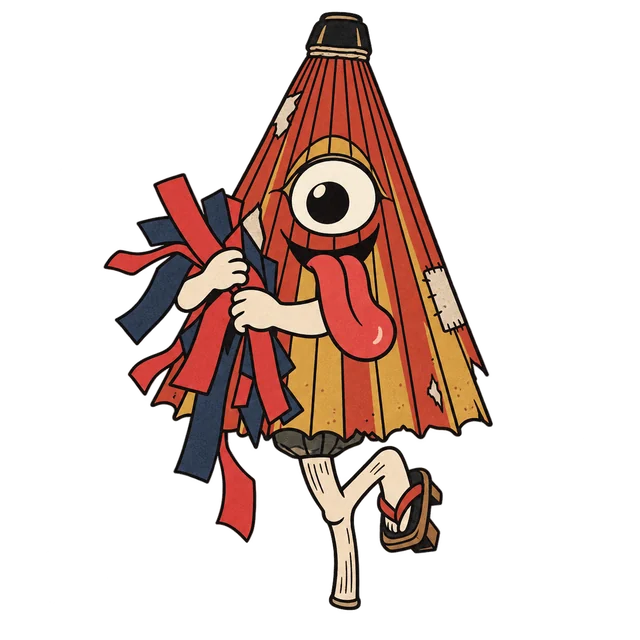
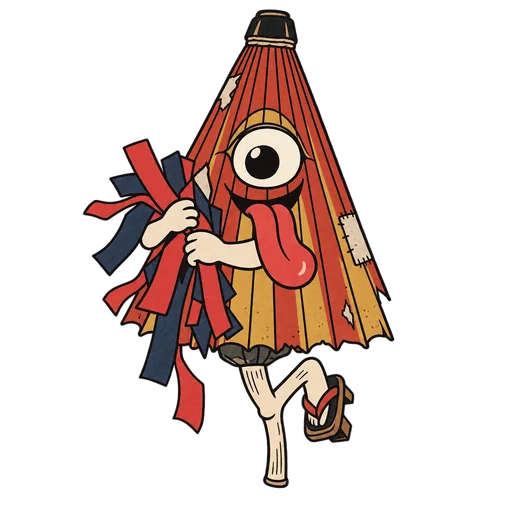
feat: painted portraits for all ten regular yokai
Zashiki-warashi, Chochin-obake, Kawauso, Hitotsume-kozo, Bakeneko,
Ittan-momen, Nopperabo, Kamaitachi, Rokurokubi and Yama-uba, cut out with
scripts/cutout.py. Portraits now ship at 512px (the largest is shown at
about 450 device pixels), about 1.1MB for all fifteen.

Claude-Session: https://claude.ai/code/session_01D2AYuUeNwB7r5b8zyDarYr

diff --git a/src/ui/art/portraitArt.ts b/src/ui/art/portraitArt.ts
@@ -1,10 +1,20 @@
 /**
  * Painted portraits that replace a spirit's drawn one. Each image is square with a transparent
  * background; the drawn seasonal backdrop and frame stay, and the painting sits inside them.
- * Sources live in art-source/yokai/; the game ships 640px webp copies.
+ * Sources live in art-source/yokai/; the game ships 512px webp copies.
  */
 import type { SpiritId } from '@/content/spirits';
 import kasaObake from './portraits/kasaObake.webp';
+import bakeneko from './portraits/bakeneko.webp';
+import chochinObake from './portraits/chochinObake.webp';
+import hitotsumeKozo from './portraits/hitotsumeKozo.webp';
+import ittanMomen from './portraits/ittanMomen.webp';
+import kamaitachi from './portraits/kamaitachi.webp';
+import kawauso from './portraits/kawauso.webp';
+import nopperabo from './portraits/nopperabo.webp';
+import rokurokubi from './portraits/rokurokubi.webp';
+import yamauba from './portraits/yamauba.webp';
+import zashikiWarashi from './portraits/zashikiWarashi.webp';
 import kodama from './portraits/kodama.webp';
 import rainMan from './portraits/rainMan.webp';
 import tanuki from './portraits/tanuki.webp';
@@ -31,6 +41,56 @@ export type Framing = 'close' | 'full';
 export type PortraitId = SpiritId | 'rainMan';
 
 export const PORTRAIT_ART: Partial<Record<PortraitId, PortraitArt>> = {
+  rokurokubi: {
+    src: rokurokubi,
+    close: { cx: 0.7, cy: 0.36, size: 0.52 },
+    full: { cx: 0.5, cy: 0.5, size: 1.02 },
+  },
+  yamauba: {
+    src: yamauba,
+    close: { cx: 0.7, cy: 0.37, size: 0.6 },
+    full: { cx: 0.5, cy: 0.5, size: 1.02 },
+  },
+  kamaitachi: {
+    src: kamaitachi,
+    close: { cx: 0.72, cy: 0.54, size: 0.6 },
+    full: { cx: 0.5, cy: 0.5, size: 1.02 },
+  },
+  nopperabo: {
+    src: nopperabo,
+    close: { cx: 0.5, cy: 0.38, size: 0.6 },
+    full: { cx: 0.5, cy: 0.5, size: 1.02 },
+  },
+  bakeneko: {
+    src: bakeneko,
+    close: { cx: 0.5, cy: 0.27, size: 0.56 },
+    full: { cx: 0.5, cy: 0.5, size: 1.02 },
+  },
+  ittanMomen: {
+    src: ittanMomen,
+    close: { cx: 0.72, cy: 0.26, size: 0.56 },
+    full: { cx: 0.5, cy: 0.5, size: 1.02 },
+  },
+  hitotsumeKozo: {
+    src: hitotsumeKozo,
+    close: { cx: 0.52, cy: 0.36, size: 0.62 },
+    full: { cx: 0.5, cy: 0.5, size: 1.02 },
+  },
+  kawauso: {
+    src: kawauso,
+    close: { cx: 0.56, cy: 0.28, size: 0.55 },
+    full: { cx: 0.5, cy: 0.5, size: 1.02 },
+  },
+  chochinObake: {
+    src: chochinObake,
+    close: { cx: 0.52, cy: 0.42, size: 0.7 },
+    full: { cx: 0.5, cy: 0.5, size: 1.02 },
+  },
+  zashikiWarashi: {
+    src: zashikiWarashi,
+    close: { cx: 0.5, cy: 0.32, size: 0.58 },
+    full: { cx: 0.5, cy: 0.5, size: 1.02 },
+  },
   kodama: {
     src: kodama,
     close: { cx: 0.54, cy: 0.46, size: 0.56 },

diff --git a/scripts/cutout.py b/scripts/cutout.py
@@ -1,5 +1,5 @@
 """
-Cut a painted portrait out of its flat paper background and write the game's 640px webp.
+Cut a painted portrait out of its flat paper background and write the game's 512px webp.
 
 Only paper connected to the image border is removed, so paper-coloured areas inside the
 figure (a belly, a face, fur) survive as long as an outline encloses them.
@@ -33,7 +33,7 @@ def cutout(src: str, dst: str) -> None:
     alpha = ndimage.gaussian_filter(alpha, 0.8)
     out = a.copy()
     out[..., 3] = np.minimum(a[..., 3], alpha).astype(np.int32)
-    img = Image.fromarray(out.astype(np.uint8), 'RGBA').resize((640, 640), Image.LANCZOS)
+    img = Image.fromarray(out.astype(np.uint8), 'RGBA').resize((512, 512), Image.LANCZOS)
     img.save(dst, 'WEBP', quality=86, method=6)
     print(f'{dst}: paper {paper.astype(int).tolist()}, removed {bg.mean():.0%}')
 

diff --git a/art-source/yokai/README.md b/art-source/yokai/README.md
@@ -10,7 +10,7 @@ the drawn portraits in `src/ui/art/spirits.ts` one spirit at a time.
    block.
 2. Save the original here as `<spiritId>.png` (the id from `src/content/spirits.ts`).
 3. Make the game copy. `scripts/cutout.py` removes a flat paper background (only the paper
-   touching the edges, so paper-coloured areas inside the figure survive) and writes a 640px
+   touching the edges, so paper-coloured areas inside the figure survive) and writes a 512px
    webp: `python3 scripts/cutout.py art-source/yokai/ID.png src/ui/art/portraits/ID.webp`
    (needs `pip install pillow numpy scipy`).
 4. Register it in `src/ui/art/portraitArt.ts` with two crops, given as fractions of
@@ -43,10 +43,20 @@ the game, and its mood.>
 
 ## Done
 
-| Spirit    | Subject notes                                                                                       |
-| --------- | --------------------------------------------------------------------------------------------------- |
-| kasaObake | Old oiled-paper umbrella, one eye, long tongue, one leg in a geta, hugging stolen ribbon strips.    |
-| kodama    | Pale round-headed tree spirit with a pine sprig, peeking from behind a twisted pine.                |
-| tanuki    | Plump belly-drumming tanuki in a straw hat and blossom-print scarf, with a sake gourd.              |
-| tengu     | Red long-nosed tengu with white mane, tokin cap and crow wings, clutching a stolen red sun.         |
-| rainMan   | The guide: an elderly court poet with a yellow umbrella, red cloud-pattern robe and a leaping frog. |
+| Spirit         | Subject notes                                                                                       |
+| -------------- | --------------------------------------------------------------------------------------------------- |
+| kasaObake      | Old oiled-paper umbrella, one eye, long tongue, one leg in a geta, hugging stolen ribbon strips.    |
+| kodama         | Pale round-headed tree spirit with a pine sprig, peeking from behind a twisted pine.                |
+| tanuki         | Plump belly-drumming tanuki in a straw hat and blossom-print scarf, with a sake gourd.              |
+| tengu          | Red long-nosed tengu with white mane, tokin cap and crow wings, clutching a stolen red sun.         |
+| rainMan        | The guide: an elderly court poet with a yellow umbrella, red cloud-pattern robe and a leaping frog. |
+| zashikiWarashi | Bob-haired child in a plum-blossom kimono, holding up a string of mon coins, a top behind her back. |
+| chochinObake   | Torn paper lantern with one eye, a grinning split mouth and a long tongue reaching for a sun disc.  |
+| kawauso        | Otter in a straw hat on a river rock, a coin purse in one paw and three cards fanned in the other.  |
+| hitotsumeKozo  | Bald one-eyed monk boy peering at a hanafuda card.                                                  |
+| bakeneko       | Calico cat in an indigo jacket, with blue ghost-fire and a stolen sea bream.                        |
+| ittanMomen     | A looping strip of cloth with slit eyes, its tail frayed into red and indigo ribbons.               |
+| nopperabo      | Faceless traveller in a straw hat and green kimono, holding a card.                                 |
+| kamaitachi     | Weasel with sickle claws leaping through winter wind.                                               |
+| rokurokubi     | Woman in an indigo kimono whose long neck loops round, a card in her teeth.                         |
+| yamauba        | Wild-haired crone in a straw cape offering tea, a ladle behind her back.                            |
